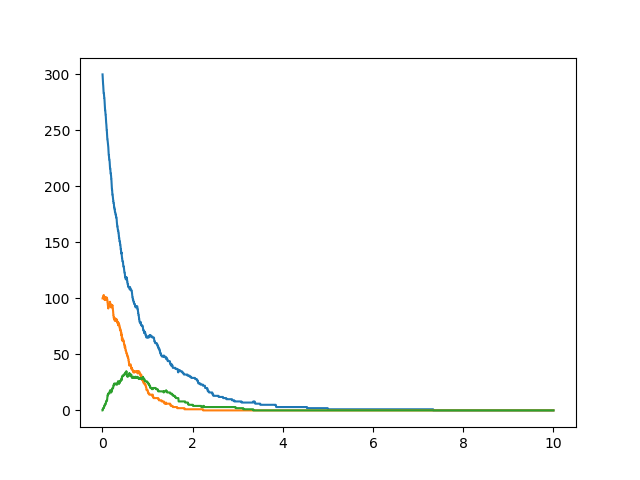
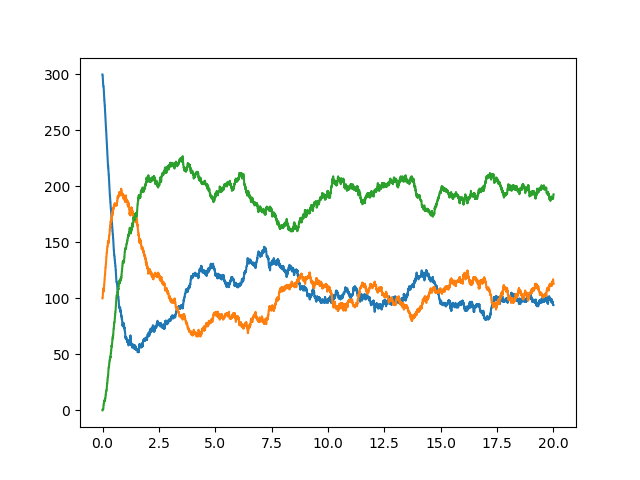
mysterious bug is gone

diff --git a/Project_5/code/main.py b/Project_5/code/main.py
@@ -296,23 +296,23 @@ def part_d():
     b = 1
     c = 0.5
 
-    percent_diff = [1.25, 1.25, 2, 2]
+    percent_diff = [1, 1.25, 2, 2]
     Amp = [diff * a0 for diff in percent_diff]
     omega = [1, 2, 1, 2]
     stop_time = 20
-    trials = 100
+    trials = 10
 
-    for i in range(4):
+    for i in range(1):
         plt.figure(figsize=[5, 2.5])
         for j in range(trials):
-            command = "SIRS_svar(S0=%i, I0=%i, R0=%i, a0=%i, A=%i, omega=%i, b=%i, c=%i, stop_time=%i)"\
-                % (S0, I0, R0, a0, Amp[i], omega[i], b, c, stop_time)
+            command = "SIRS_svar(S0=300, I0=100, R0=0, a0=4, A=1, omega=1, b=1, c=0.5, stop_time=20)"
             t, S, I, R = jcall.eval(command)
 
             plt.plot(t, S, color=S_colour, alpha=0.1)
             plt.plot(t, I, color=I_colour, alpha=0.1)
             plt.plot(t, R, color=R_colour, alpha=0.1)
         # Add ODE solution
+        """
         inst = SIRS_ODE.SIRS(
             S0=S0, I0=I0, R0=R0, N=1000, tN=stop_time, a=a0, b=b, c=c, Amplitude=Amp[i],
             omega=omega[i]
@@ -322,13 +322,14 @@ def part_d():
         plt.plot(t, S, color="Black")
         plt.plot(t, I, color="Black")
         plt.plot(t, R, color="Black")
+        """
         plt.xlim(0, stop_time)
         plt.ylim(0, 400)
         plt.xlabel("Time")
         plt.ylabel("No. People")
         plt.savefig("../figs/prob_d_fig_%i.pdf" % i)
         plt.savefig("../figs/prob_d_fig_%i.png" % i)
-        plt.close()
+        plt.show()
 
     return
 
@@ -337,7 +338,7 @@ def main():
     # convergence_check()
     # part_a_b()
     # part_b()
-    # part_c()
+    #part_c()
     part_d()
     # part_e()
     return
